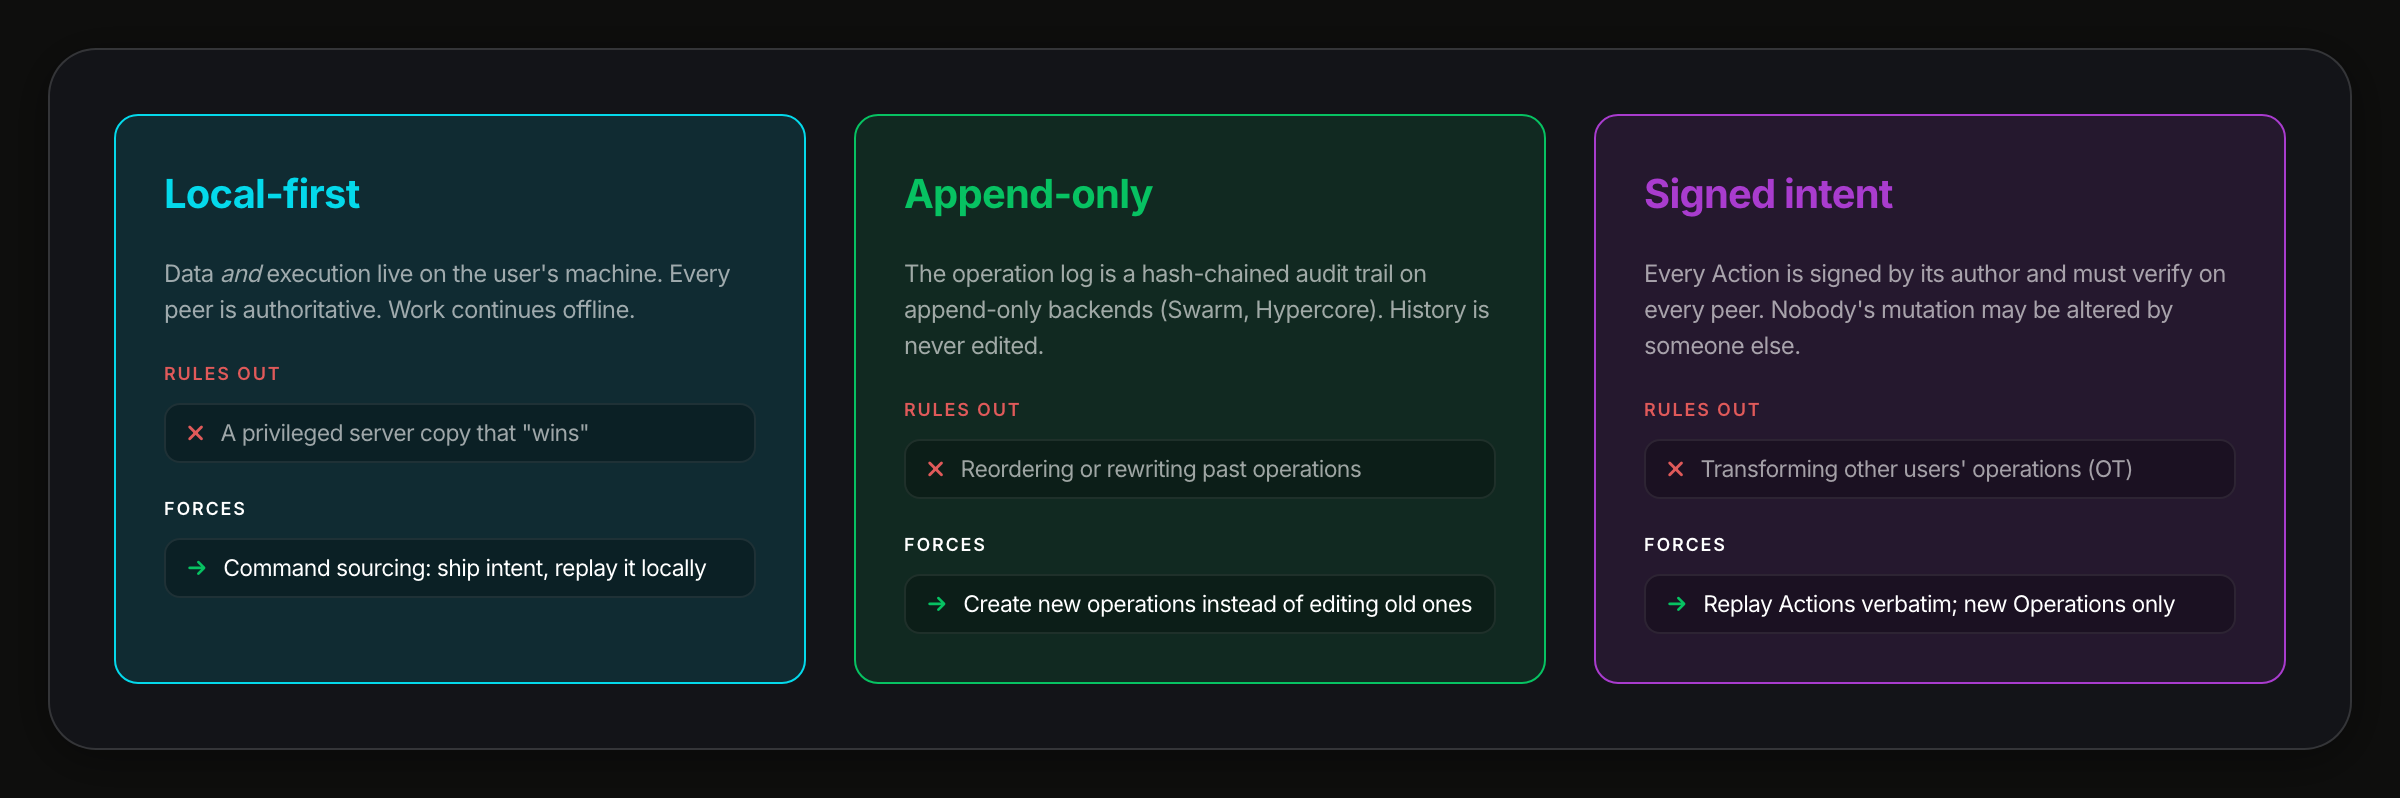
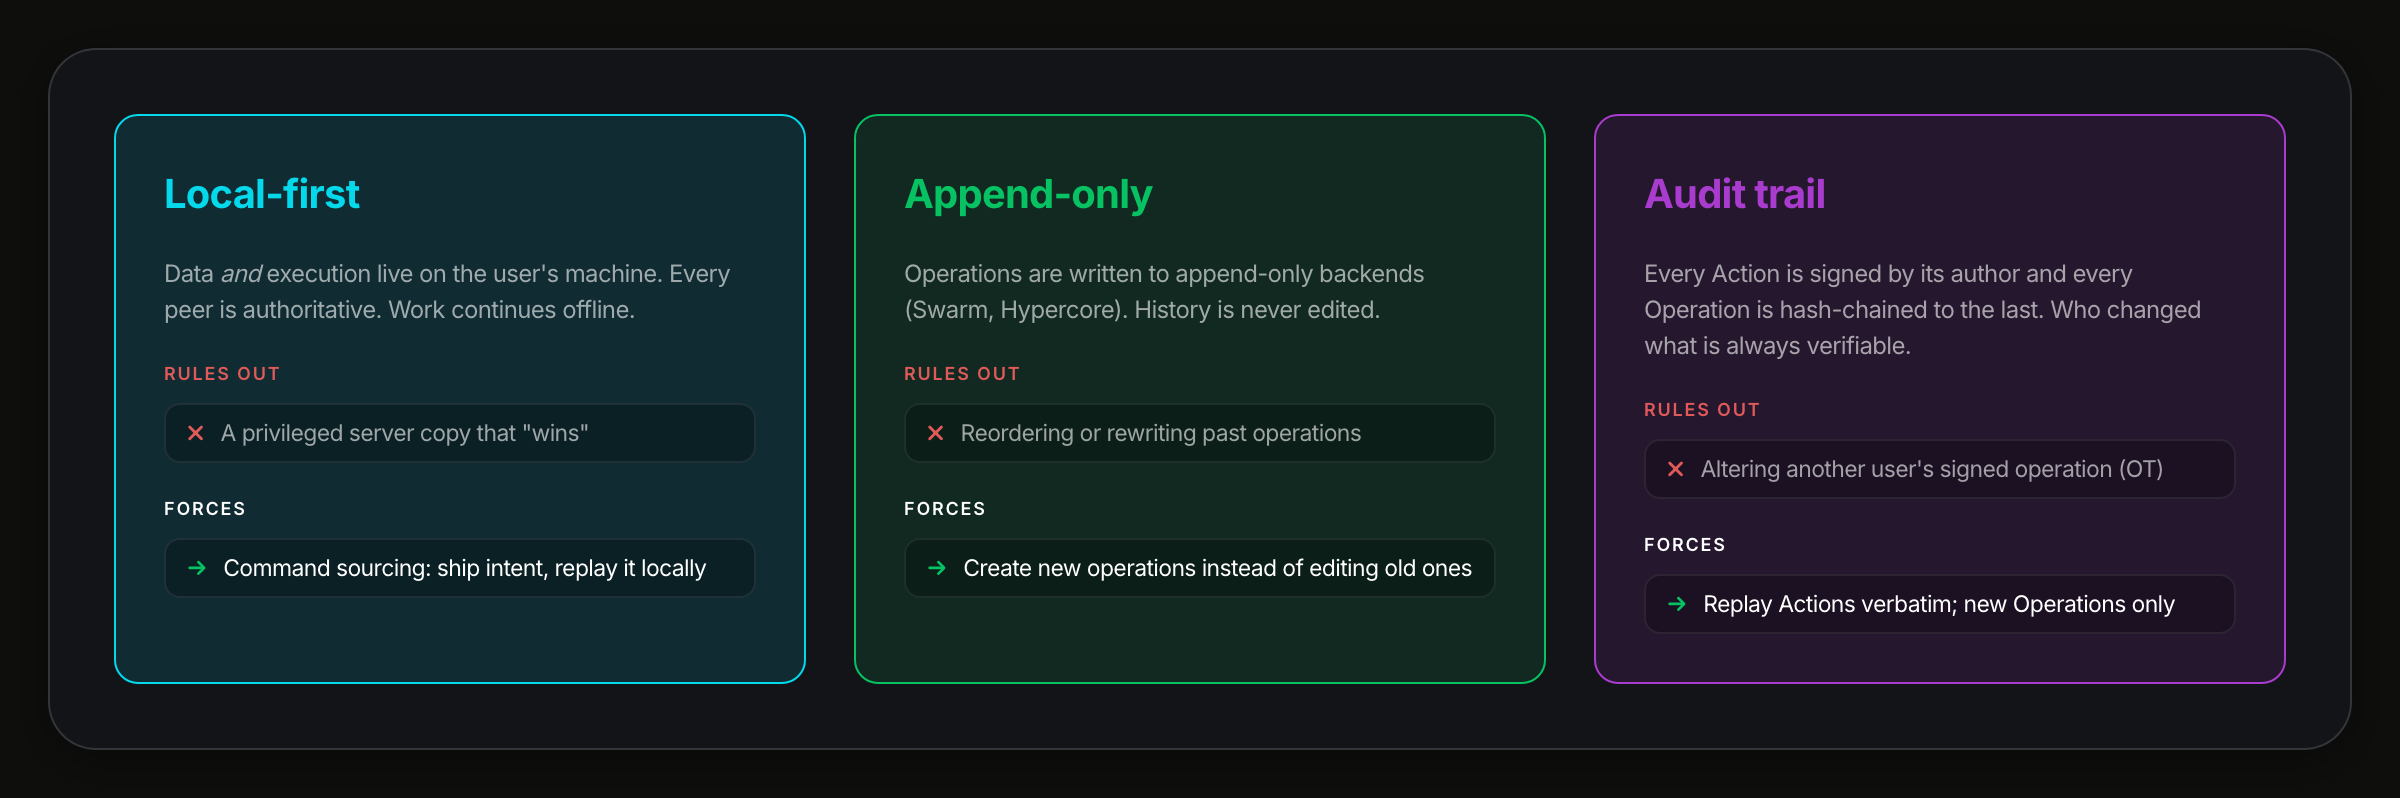
audit trail as the third requirement

diff --git a/index.html b/index.html
@@ -52,7 +52,7 @@
   <div class="reveal">
     <div class="slides">
       <section data-slide="1"><header class="hd"><h2>The Reactor</h2><span class="sec"></span></header><div class="art text"><p>A structured runtime for local-first applications.</p></div><aside class="notes"><h4>The Reactor</h4><ul><li>Hands-on tech lead. About a year at Powerhouse on this runtime.</li><li>I: "Powerhouse provides a local-first tool-set that allows open organizations to collaboratively coordinate people, code and capital."</li><li>I: "our goal is to provide users true agency and ownership, without sacrificing the typical merits of centralized services."</li><li>I: "We are aiming for the convenience of a centralized SaaS with the sovereignty of local-first."</li></ul></aside></section>
-      <section data-slide="2"><header class="hd"><h2>Three non-negotiables</h2><span class="sec">The Ask</span></header><div class="art"><img src="img/design-constraints.png" alt="Local-first, append-only, signed intent: what each rules out and forces"></div><aside class="notes"><h4>Three non-negotiables</h4><ul><li>Local-first. I: "both the data and the execution to be locally owned by the user."</li><li>Append-only. II: "each Reactor writes to append-only storage backends (like Swarm or Hypercore), so we can't actually go back and rewrite operations or their order."</li><li>Signed intent. II: the stream has "a signed hash chain"; an Action is "a signed user intent." II: "do you really want your mutations altered by someone else? Who gets to decide that anyway?"</li></ul></aside></section>
+      <section data-slide="2"><header class="hd"><h2>Three non-negotiables</h2><span class="sec">The Ask</span></header><div class="art"><img src="img/design-constraints.png" alt="Local-first, append-only, audit trail: what each rules out and forces"></div><aside class="notes"><h4>Three non-negotiables</h4><ul><li>Local-first. I: "both the data and the execution to be locally owned by the user."</li><li>Append-only. II: "each Reactor writes to append-only storage backends (like Swarm or Hypercore), so we can't actually go back and rewrite operations or their order."</li><li>Audit trail. II: the stream has "a signed hash chain"; an Action is "a signed user intent." II: "do you really want your mutations altered by someone else? Who gets to decide that anyway?"</li></ul></aside></section>
       <section data-slide="3"><header class="hd"><h2>Run everywhere</h2><span class="sec">The Ask</span></header><div class="art"><img src="img/reactor-environments.png" alt="The Reactor runs everywhere and syncs"></div><aside class="notes"><h4>Run everywhere</h4><ul><li>I: "both data storage and execution need to happen on your machine first, with seamless 'eventually consistent' synchronization across devices."</li><li>I: "The Reactor needs to be able to run everywhere. It needs to run in your browser when you load an application and it needs to run in hosted environments, like a node server."</li><li>I: "able to run serially without impeding the render thread of a browser while also able to scale horizontally in a server environment."</li></ul></aside></section>
       <section data-slide="4"><header class="hd"><h2>Where we started: the reducer</h2><span class="sec">Act I — Document Models</span></header><div class="art"><img src="img/reducer-update-loop.png" alt="Flux/Redux reducer loop"></div><aside class="notes"><h4>Where we started: the reducer</h4><ul><li>I: "a function, called a reducer, takes a state object and a command and outputs the next state."</li><li>I: "The flux pattern breaks down every state change into simple data and pure functions, making them extremely easy to isolate and test."</li><li>I: "how do you reconstruct state if you didn't already have it, and secondly (though related), how would you synchronize state between multiple users, especially given the constraint of append-only storage? Oh and a nit-picky third: how the heck do you scale this approach?"</li></ul></aside></section>
       <section data-slide="5"><header class="hd"><h2>Event sourcing: state as a stream</h2><span class="sec">Act I — Document Models</span></header><div class="art"><img src="img/event-sourcing.png" alt="State as a stream of events"></div><aside class="notes"><h4>Event sourcing: state as a stream</h4><ul><li>I: "This architecture describes an object's state not as some explicit object, but as a stream of the events that create the object."</li><li>I: "All the sudden we don't just have a username, we have an entire history of usernames along with descriptive reasons why the username changed at all."</li></ul></aside></section>

diff --git a/outline.md b/outline.md
@@ -25,12 +25,12 @@ A structured runtime for local-first applications.
 
 ### Three non-negotiables
 
-![Local-first, append-only, signed intent: what each rules out and forces](img/design-constraints.png)
+![Local-first, append-only, audit trail: what each rules out and forces](img/design-constraints.png)
 
 - Local-first. I: "both the data and the execution to be locally owned by the user."
 - Append-only. II: "each Reactor writes to append-only storage backends (like Swarm or
   Hypercore), so we can't actually go back and rewrite operations or their order."
-- Signed intent. II: the stream has "a signed hash chain"; an Action is "a signed user intent."
+- Audit trail. II: the stream has "a signed hash chain"; an Action is "a signed user intent."
   II: "do you really want your mutations altered by someone else? Who gets to decide that
   anyway?"
 
